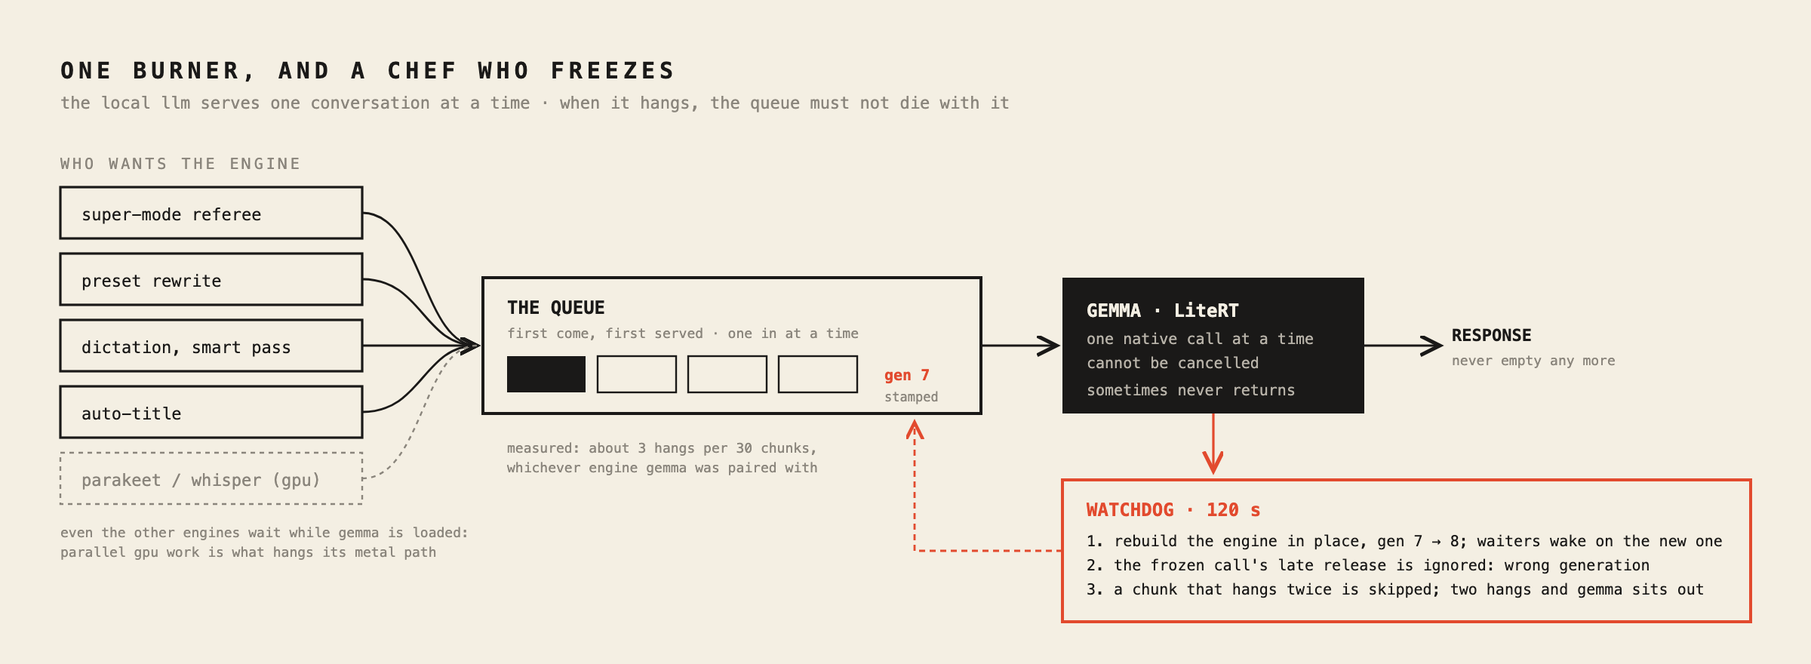
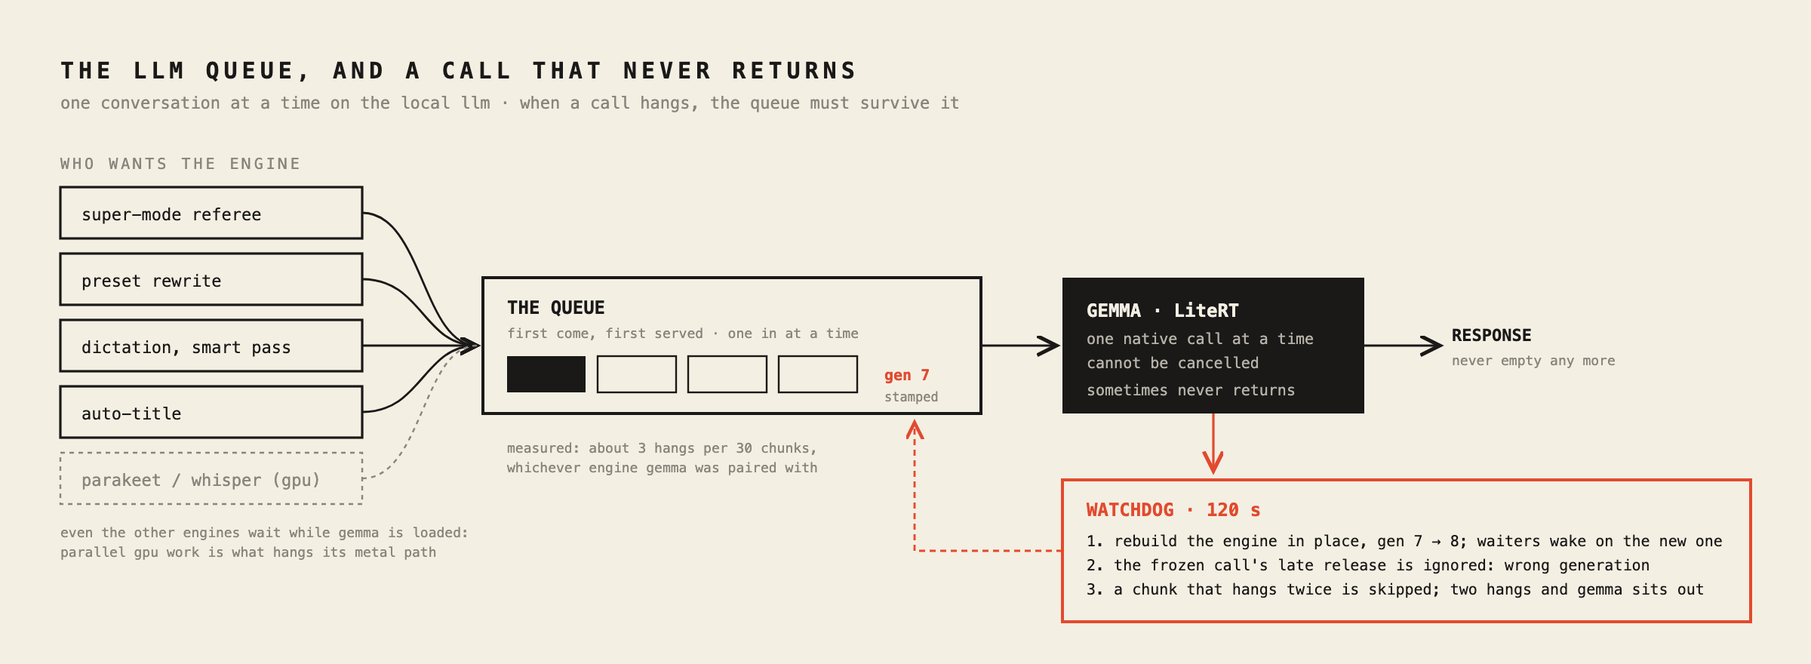
Build notes, part two: rewritten as the log, new stack diagram, stove diagram redrawn

Changed region(s): [[0.0312, 0.092, 0.4688, 0.1841], [0.5, 0.1534, 0.5312, 0.1841]]

diff --git a/docs/building-a-local-transcriber.md b/docs/building-a-local-transcriber.md
@@ -12,7 +12,7 @@ The map first. One pipeline, every recording. Every lesson below lives at one of
 
 The first build used one multimodal model for everything: Gemma via MLX, audio in, text out. The demo looked great. Then it transcribed a business meeting as a conversation about music production. That conversation never happened. Fluent, confident, invented.
 
-The rule that saved us: **isolate the layer before you blame it.** From the transcript view, a hallucinating model and a broken mic pipeline look identical. So prove layers one at a time. Headless CLI, test tone: 151 dB SNR — recorder healthy. Decode healthy. Which leaves the model — and there it was: the 8-bit quantized audio tower was degraded. Same Gemma through Google's LiteRT-LM runtime, the stack already proven on Android: word-perfect. Same weights, different runtime, opposite result.
+The rule that saved me: **isolate the layer before you blame it.** From the transcript view, a hallucinating model and a broken mic pipeline look identical. So prove layers one at a time. Headless CLI, test tone: 151 dB SNR — recorder healthy. Decode healthy. Which leaves the model — and there it was: the 8-bit quantized audio tower was degraded. Same Gemma through Google's LiteRT-LM runtime, the stack already proven on Android: word-perfect. Same weights, different runtime, opposite result.
 
 You don't integrate a model. You integrate a model-runtime pair.
 
@@ -28,7 +28,7 @@ No prompt fixes this, because it isn't comprehension — it's attention arithmet
 
 ![Chunked rewrites: each window's output passes its tail to the next prompt](img/baton.svg)
 
-A failed window keeps its source text — content can't be lost, only left unpolished. And the local engine is one chef in one kitchen, so generations queue FIFO. We let two cooks share the stove once. The plate came back empty.
+A failed window keeps its source text — content can't be lost, only left unpolished. And the local engine is one chef in one kitchen, so generations queue FIFO. I let two cooks share the stove once. The plate came back empty.
 
 The rule: prompt for judgment, code for mechanics, chunk everything.
 
@@ -45,9 +45,9 @@ Four macOS incidents. Zero useful errors at the moment of the mistake.
 
 ### Engines are a protocol, quality is a tournament
 
-Every engine — Parakeet on the Neural Engine, Whisper large-v3, Gemma — implements one small protocol: `transcribeChunk`, `generateText`, capability flags. That's why versioned transcripts cost almost nothing to build: every run is snapshotted, engines race on the same audio, you review the photo finish. It's also how we settled "is it better than a Samsung S24?" — side by side, per recording, not by vibes.
+Every engine — Parakeet on the Neural Engine, Whisper large-v3, Gemma — implements one small protocol: `transcribeChunk`, `generateText`, capability flags. That's why versioned transcripts cost almost nothing to build: every run is snapshotted, engines race on the same audio, you review the photo finish. It's also how I settled "is it better than a Samsung S24?" — side by side, per recording, not by vibes.
 
-The scoreboard, concretely: two real recordings, 28 and 42 minutes, same audio to both devices. Seven domain terms tracked — a company, a product, two cities, a security standard, a cloud platform, a meeting type. Transcriberr in Super mode: **7/7 exact**. Samsung: **2/7** — a European city came back as a country at war, a container platform became a word that doesn't exist, a company name turned into a cleaning product, and a "dev call" became "deaf calls". Where Samsung won: turn grouping — 39 clean speaker turns against our 115 fragments on the long file. That gap became a setting (speaker-turn gap, default 30 s), not a redesign.
+The scoreboard, concretely: two real recordings, 28 and 42 minutes, same audio to both devices. Seven domain terms tracked — a company, a product, two cities, a security standard, a cloud platform, a meeting type. Transcriberr in Super mode: **7/7 exact**. Samsung: **2/7** — a European city came back as a country at war, a container platform became a word that doesn't exist, a company name turned into a cleaning product, and a "dev call" became "deaf calls". Where Samsung won: turn grouping — 39 clean speaker turns against my 115 fragments on the long file. That gap became a setting (speaker-turn gap, default 30 s), not a redesign.
 
 ### Super mode: two stenographers and an editor-in-chief
 
@@ -59,7 +59,7 @@ Super mode = two engines + a merge (ROVER-style). Two court stenographers type t
 
 ![Super mode: two word tapes aligned, disputes arbitrated by a context-aware LLM](img/stenographers.svg)
 
-The bug that taught us the design: our first merge rubber-stamped anything that *looked* similar — and threw away the one word only Whisper caught, "OWASP 10". So: verbatim shortcuts only at near-certainty. Everything else gets a vote.
+The bug that taught me the design: my first merge rubber-stamped anything that *looked* similar — and threw away the one word only Whisper caught, "OWASP 10". So: verbatim shortcuts only at near-certainty. Everything else gets a vote.
 
 ### Meeting mode: plug into the soundboard
 
@@ -85,83 +85,109 @@ Twice before shipping, an independent review pass attacked the newest code with 
 
 Local-first AI is not cloud AI, smaller. It's a different discipline: prove each layer with evidence, let deterministic code do everything it can, give the model only short, judgment-shaped work — and never trust a demo.
 
-## Part two: a month later
+## Part two: the log
 
-The first part of this went up on 6 August, when the app was at version 1.2. It is now 5 September, the app is at 3.2, and fifty releases sit between the two. Most of the month went on things the August map barely had room for: meetings that record cleanly, a language model that sometimes stops answering, and dictation into any app on the Mac. The rest went on plumbing, which only shows up in a piece like this when it fails, so it will.
-
-### The map, redrawn
+Part one went up in August. What follows is the month after it, taken from the commit messages and cut down.
 
 ![The machine, a month later: what goes in, what comes out, and where the models sit](img/machine-v3.svg)
 
-The middle of the map is the same. The edges have changed. Audio now arrives three ways: from the microphone, from the meeting tap, or from a key you hold down while you talk. The first two feed the pipeline. The key skips it: the passage goes straight to Parakeet and straight back out, with no decoder, no chunking and no diarization in between. Text leaves three ways: as the transcript, as words pasted at the cursor of whichever app is in front, and through a read-only interface that lets any assistant running on the machine search the library. Under the engines sits a queue. Running Gemma at the same time as another model made Gemma hang, so the app now runs one model at a time. Along the bottom, every finished recording shrinks to a tenth of its size, and every transcript is shadowed to a folder of plain JSON that nothing in the app will ever delete.
+The middle of the map is the August pipeline. Dictation goes from the key straight to Parakeet and skips it: no decoder, no chunking, no diarization. The knowledge base reads the store. The queue under the engines runs one model at a time, because two models running at once made Gemma hang.
 
-## Hardship #4: The chef who freezes
+### The stack
 
-In August I wrote that the local language model is one chef in one kitchen, and that letting two cooks share the stove had produced an empty plate. That was the right picture and I had drawn half of it. The empty plates kept coming on days when, as far as I could tell, nobody was sharing anything, until the log gave it away: every zero-character response coincided with a Super-mode merge running at the same moment. Swift actors are reentrant at every await. An arbitration and a preset rewrite had each entered the actor, each awaited the engine, and the runtime had interleaved two conversations on one LiteRT session. One of them starved. The fix was a lock that hands out the engine first come, first served, and holds the door until the caller is done.
+Audio comes in through AVAudioEngine for the microphone, with Apple's voice processing on, and for meetings through a CoreAudio process tap joined to the mic in one aggregate device. The dictation key is a CGEvent tap. The app in front, the kind of field and the text before the caret come from the Accessibility API. Decoding is AVFoundation: AVAssetReader where it works, AVAudioFile and AVAudioConverter where it refuses, always down to 16 kHz mono.
 
-Which is when the chef froze. LiteRT's native call sometimes hangs, and it cannot be cancelled. The task holding the lock never reaches its cleanup, the lock stays held, and every later caller queues behind a corpse. I found this the way one finds these things, by waiting a long time for a summary that was never coming. The lock now carries a generation number. When the watchdog rebuilds the engine, the generation ticks over, the waiters wake up against the fresh engine, and whenever the frozen call finally lets go, its release belongs to a generation that is gone, so nothing happens. Around that sits a ladder. After 120 seconds the engine is rebuilt in place. A chunk that hangs twice is skipped. After two hangs in one run, Gemma is benched and the other engine finishes on its own. In a sweep of all six engine pairings on the same Ukrainian meeting, Gemma hung about three times in thirty chunks whichever partner it had, so the ladder gets climbed on ordinary Tuesdays.
+![The stack: Apple frameworks, the three packages that run the models, and the parts that are Yuri code](img/stack.svg)
 
-![One burner, and a chef who freezes: a generation-stamped queue in front of the local LLM, with a watchdog that rebuilds the engine](img/stove.svg)
+The models come through three packages. FluidAudio carries Parakeet, a CoreML build of Nvidia's TDT model that runs on the Neural Engine, and the pyannote diarization pipeline, also CoreML. WhisperKit carries whisper large-v3 as CoreML on the GPU. LiteRT-LM, Google's runtime, carries Gemma for audio and text on Metal. The cloud backends for OpenAI, Anthropic and Gemini are in the code behind an API key and off by default.
 
-One more thing sat underneath all of it. GPU work from another engine at the same moment was enough on its own to wedge LiteRT's Metal path. So there is now a gate across every engine: while a Gemma engine is loaded, heavy inference of any kind goes through one queue, and when no Gemma is loaded the gate lets everything straight through. The stove is fine. It has one burner.
+The Yuri code sits around the models: the engine protocol every backend implements; the Super-mode word vote and the arbitration pass; the queue, its watchdog and its benching; the NLMS echo canceller on Accelerate; the destutter pass, the chunk windows and the carried-over context between them; the vocabulary lists and the harvester that learns names from the library, using NaturalLanguage to tell a name from a capitalised ordinary word. Storage is SwiftData behind one main-actor context, plain JSON backups written additively, AAC through AVAudioConverter with lossless trims through AVAssetExportSession, and models in Application Support. The ways out: the SwiftUI app and its menu bar item, NSPasteboard plus a synthetic ⌘V, App Intents for Shortcuts and Siri, a URL scheme, the headless CLI that runs every stage, and the MCP server, JSON-RPC over stdio. Two non-Swift pieces: an Objective-C try/catch shim, because Swift's do/catch cannot catch the NSException AVAudioEngine throws and the app used to abort on the record button; and an IOKit power assertion so the Mac does not sleep during a long transcription.
 
-The error that cost me two releases: the log said "error 3". I opened the enum, counted down to the third case, and spent two versions chasing an engine that was never unavailable. Foundation does not number the cases of a payload-less Swift enum in the order they are declared. Error 3 was the chunk timeout all along.
+### Meeting mode
 
-## Hardship #5: Measured first, then redesigned
+Live captions now run for meeting recordings as well as plain ones. Both recorders emit the same five-second chunk feed and the live transcriber attaches to whichever one starts. The meeting recorder measures mic energy against system-tap energy per IO cycle, before the downmix, and saves the intervals where the mic dominates. After transcription, the speaker that best overlaps those intervals gets my name. The speaker-count stepper now reaches the diarizer; it had been dropped on the way.
 
-Super mode on a real 52-minute meeting, with the referee reading both sides of every chunk in sequence, took 24 minutes and 59 seconds. Then I looked at what the referee had actually done. The two engines agreed on 221 of the 226 chunks and never needed him. Running everything in sequence had bought context for five decisions and charged twenty minutes for it. The redesign runs the first pass three chunks wide with a plain vote and no Gemma at all, then sends only the disputed chunks, where agreement is below 0.8, back for a second, sequential pass in which the referee sees the transcript on both sides plus the vocabulary list. Two engines from different families dispute about 70% of the chunks on Ukrainian, so the second pass takes the ten worst disputes and lets the vote stand for the rest.
+Alongside the mixed file, meeting mode writes the raw mic track and the raw system track. When both exist, transcription runs them as two chunk streams on one timeline. Mic segments are me. Diarization runs only on the system track, with one speaker fewer since I counted myself. An echo guard drops mic segments that duplicate a system segment at the same time.
 
-The vote itself had a flaw that only a second language shows. Parakeet's confidence is calibrated on English, and on Ukrainian it stayed confident on precisely the words Whisper had right, so "NBE" lost to a Cyrillic misreading. Each engine now carries a prior per language: Parakeet v3 counts for half on Ukrainian, Parakeet v2 for half on anything that is not English, and Whisper anchors Ukrainian. A Whisper-plus-Gemma pairing stays a good one for Ukrainian because, when Gemma misbehaves, the ladder above degrades the run to almost pure Whisper, which is where you want to end up anyway. Two smaller things fell out of the same recording. Parakeet's tokens carry a literal leading space, which had doubled every separator in merged text. And Whisper splits Ukrainian words at the apostrophe, so "Пам" and "'ятаєш" arrive as two tokens and have to be glued back before anyone votes on them.
+### Speakers, echo, the 25-minute Super run, and the empty summaries
 
-## Hardship #6: The meeting that muted everyone but me
+The speaker count became a maximum. Forcing an exact cluster count manufactured phantom speakers when fewer people talked. A system-track cluster that carries my own name is the platform's echo of my voice and folds into me.
 
-Meeting mode had more releases than anything else, and the bug I am least proud of. The recorder told the microphone and the system tap apart by their position in the aggregate device's buffer list: buffer zero was the mic, everything after it was the tap. Nobody had promised that order. The echo gate downstream mutes the mic whenever the far side is louder, so on a machine where the order came out the other way round, the gate muted the other participants at exactly the moments I was speaking. The live waveform went flat for everyone but me, and the saved mix followed it. The tap is built as a stereo mixdown by construction, so the buffers are now told apart by channel count, and position is consulted only when the counts happen to match.
+Echo, first pass: while the system tap is loud and the mic is not dominant, the mic's contribution to the mix is attenuated to 12% with 40 ms smoothing, so the far side no longer arrives twice, once digitally and once through the room. Then the duck became a full gate, and then an offline NLMS canceller, run against the raw tracks after the recording stops. Measured: 11.8 dB off the echo, 0.2 dB off speech. A sentence-level scrub catches what the canceller leaves at speaker turns, with fuzzy token matching, because echo degrades "schedule" into "scheduled".
 
-The echo took longer. The tap is digital, but the mic hears the room, so the far side arrives twice, once cleanly and once through my speakers. First there was a duck, then a full gate on the mic while the far side speaks, then an offline echo canceller, NLMS, run against the raw mic and system tracks after the recording stops, so that the saved mix is rebuilt from a clean signal, where before it was a gated one. Measured on a real call: 11.8 dB off the echo, 0.2 dB off my own speech. What the canceller misses at the seams, a scrub at sentence level catches, with fuzzy matching, because echo degrades "schedule" into "scheduled" on its way through the room. Two structural moves made the rest easier. The raw tracks are kept beside the mix and transcribed separately, so my track is ground truth for "me" and the diarizer only has to untangle the others. And the speaker count became a maximum. Forcing an exact count had been manufacturing phantom speakers whenever fewer people talked.
+Super mode, measured on a real 52-minute meeting: the sequential max-quality run took 24:59. 221 of 226 chunks agreed between the engines and never reached arbitration. The sequential constraint bought context for five decisions and cost twenty minutes on 226. New design: the first pass runs three chunks wide with the vote only, and disputed chunks, agreement under 0.8, get a second sequential pass in which Gemma arbitrates with transcript context from both sides plus the vocabulary.
 
-And then live captions. The recorder's caption stream was created once, in the initialiser, and finished by stop. An AsyncStream cannot be un-finished. Live captions therefore worked for the first recording of each session and died for every one after. I fixed that in the plain recorder on 24 August and found the identical bug in the meeting recorder on 4 September. Meeting mode is the default. In practice, live captions had never worked.
+The test suite went from 16 to 41 and caught three bugs on the way: "yes yes" as deliberate emphasis was being collapsed as a stutter, the version dedup checked only the relationship array, and a boundary trim was deleting sentence ends. A CLI run command executes the full pipeline headlessly on real recordings before a deploy.
 
-## Hardship #7: Files
+The empty summaries. The log showed that every zero-character response coincided with a Gemma merge running at the same moment. Swift actors are reentrant at await: an ensemble arbitration and a preset generation had interleaved two conversations on the single LiteRT engine, and one starved. A non-reentrant FIFO lock now guards the text and audio paths. The lock then deadlocked: when a LiteRT inference hung, the task holding the lock never ran its defer, so the lock stayed held and every later call queued behind it. The lock is now generation-stamped and resets when the engine is rebuilt, so waiters resume against the fresh engine and the hung task's eventual release is a no-op. The watchdog rebuilds the wedged Gemma engine in place instead of tearing down the whole ensemble under in-flight chunks. A chunk that wedges twice is skipped. The dispute loop got a 120-second timeout per arbitration and a cap: the worst ten disputes by agreement are arbitrated, the rest keep the vote. Pairs from different model families dispute about 70% of chunks on Ukrainian.
 
-Recordings took 7.7 GB. They take 1.0 GB now. Recording still writes WAV, because encoder work inside a CoreAudio callback is a risk I did not want to take with live capture. Once a file is closed and its database row is saved, it is transcoded to 16 kHz mono AAC at 48 kbps, checked against the original's duration, and only then is the WAV deleted. The first draft did that the other way round, transcoding before the row was saved, which meant a crash mid-transcode would have left a complete recording on disk with no row pointing at it, invisible forever. The order of operations is the whole feature.
+![The LLM queue, and what happens when a native call hangs: a generation-stamped lock, a watchdog that rebuilds the engine, benching after two hangs](img/stove.svg)
 
-Splitting a recording in two, which arrived later, came with a sound I had to hear to believe: robotic, with small clicks at the cut. The split decoded the compressed source and re-encoded both halves, a second lossy pass on top of the first, and at the cut point that measures about 6% RMS distortion against the source, where an ordinary re-encode measures under 1%. The bitrate could not go up: 48 kbps is the top of AVAudioConverter's list for 16 kHz mono. So the split now trims the original bitstream without touching the encoder, which measured 0%, and both the cut and the join get a 20 ms fade, which any audio tool does at a boundary and this one had been missing everywhere it joined raw samples.
+### Error 3, the JSON flake, and Ukrainian
 
-Every transcript, every version of it, and every generated output now also lives as human-readable JSON in a Backups folder next to the project, never pruned, including after a delete. A corrupted store takes nothing with it. And one bug I had blamed on SwiftData for a week was mine. Duplicate versions kept appearing with the same timestamp. The deduplication compared two transcripts by their encoded JSON strings, and JSONEncoder's key order is not stable between two encodes of the same value. A standalone harness put numbers on it: under heap churn, 131 of 150 identical saves produced a duplicate with the string comparison, and 0 of 300 with a comparison of the decoded content.
+"Error 3" in the log was the chunk timeout, not "backend unavailable". Foundation does not number the cases of a payload-less Swift enum in declaration order. Two releases went to the wrong failure. The max-quality first pass had a bare 300-second timeout and no recovery; it now recovers, retries, degrades to the healthy engine, and after two wedges in a run Gemma sits out the rest. In a sweep of all six engine pairs on the same Ukrainian meeting, Gemma wedged in every pairing that contained it, about three times per thirty chunks, whichever partner it had.
 
-## Dictation: the same machine, pointed at the cursor
+Version snapshots were deduplicated by comparing encoded JSON strings. JSONEncoder's key order is not stable across two encodes of the same value. In a standalone harness under heap churn, 131 of 150 duplicate saves got through with the string compare and 0 of 300 with a compare of the decoded content. I had blamed SwiftData staleness for a week. Instrumentation showed both views seeing the stored row and the JSON not matching.
 
-This is the part of the month I use every day. Hold the right Option key in any app, talk, let go, and the passage appears where the cursor was. Under the hood it is the app's existing parts in a different order. The recorder's input chain captures into memory. Parakeet decodes the whole passage in one pass on the Neural Engine, a fraction of a second for half a minute of speech. While you are still talking, the buffer so far is decoded every 2.5 seconds and shown as provisional text, and the final pass runs over the whole passage, so the preview's mistakes never reach the cursor. Then come the same deterministic stages the presets use, in an order that took one bug to settle: vocabulary spellings first, then the destutter pass, then self-corrections, then spoken commands. The order matters because one of the names on my vocabulary list is KimKim, and the destutter pass, run first, made it Kim.
+The ROVER merge degraded Ukrainian. Parakeet's token surfaces carry a literal leading space, which doubled every separator in merged text. Whisper splits Ukrainian words at the apostrophe, so "Пам" and "'ятаєш" arrived as two tokens. And Parakeet's calibrated-high confidence outvoted Whisper on divergent words: "NBE" lost to "ДНБІ". The merge now takes per-language vote priors, Parakeet at half weight on Ukrainian, and every fallback prefers the stronger-language engine. Validated on the real meeting: zero double spaces, zero split apostrophes, Whisper's Latin entities survive.
+
+Concurrent GPU or Neural Engine work from another engine wedges LiteRT's Metal path on its own. So while a Gemma engine is live, heavy native inference across all engines goes through one generation-stamped gate. With no Gemma loaded, the gate passes everything through.
+
+### Folders, the knowledge base, backups, disk
+
+Folders, one per recording, and tags, many to many, with nullify delete rules so deleting one never cascades into the others. Name uniqueness is checked case-insensitively in code; SwiftData's unique attribute upserts without saying so. Behind them, a read-only layer for LLMs. The CLI opens the same store file with allowsSave false, which maps to Core Data's read-only option, so the process can never write to or migrate a store the GUI has open, and WAL makes reads from a second process safe. There are kb list, search, get, outputs, folders, tags and stats commands, and an mcp command that serves the same six calls as JSON-RPC over stdio.
+
+Import no longer overwrites an existing file with the same name. WhatsApp exports share names; a second import replaced the first recording's audio on disk, both rows then played the same file, and a merge concatenated one file twice.
+
+Every recording's transcript now shadows to a Backups folder next to the project as human-readable JSON: current state, every historical version, every generated output. Backups are never removed on delete. The per-chunk append path does not back up, since that would add a synchronous encode and disk write to the hot path; the backup refreshes at the run-completion checkpoints, which already hold the full transcript. A restore command re-injects into a live store and fills in only what is missing.
+
+Finished recordings are transcoded to 16 kHz mono AAC at 48 kbps, about a tenth of the WAV. Recording still writes WAV; encoder work inside a CoreAudio IO callback is not a risk I want with live capture. The transcode runs after the file is closed and the row is saved, is checked against the original's duration, and only then deletes the WAV. The first draft awaited compression before the row was saved, so a crash mid-transcode would have left a fully recorded file with no row pointing at it. A review pass on that diff found ten issues; that was the serious one. Migrating the existing library moved 23 of 24 WAV recordings; the Recordings folder went from 7.7 GB to 1.0 GB. Two things learned on the way: AVAudioFile finalises a WAV header only when the writer is deallocated, and read(into:) throws at end of file instead of returning an empty buffer.
+
+The meeting recorder's live gate still let audible echo into the saved file. After Stop, the offline canceller now reruns against the raw tracks and rebuilds the saved mix. That rebuild plus the compression used to run synchronously before Stop returned, so pressing Stop looked hung. Both run in the background now, and transcription starts at once off the raw WAV.
+
+### Two things that worked once
+
+The language used for a run was never written back onto the recording, so an older recording could show whatever language had been picked last for a different one. The run's languages are locked onto the recording when the job starts.
+
+The plain recorder's live-caption stream was created once in init and finished by stop. An AsyncStream cannot be un-finished. Live captions worked for the first recording of each session and died for every one after.
+
+### The mute, the split, and the same bug again
+
+The meeting recorder told the mic and the system tap apart by position in the aggregate device's buffer list: buffer zero the mic, the rest the tap. Nothing guarantees that order. The echo gate downstream mutes whatever lands in the mic slot whenever the other side dominates, so with the order reversed it muted the other participants exactly while I was talking, and the waveform went flat for everyone but me. The tap is built as a stereo mixdown by construction, so buffers are now told apart by channel count when the counts differ, and by position only when they match.
+
+Neither Package.resolved nor a lockfile was committed, so a fresh checkout resolved newer FluidAudio and LiteRT-LM packages whose XCFrameworks both ship a file named module.modulemap into the same include path, and the build failed. Both are pinned now.
+
+Split, the inverse of merge: audio cut at a point, transcript partitioned by segment midpoint, mic and system tracks and the speaking intervals cut the same way, folder, tags and run settings carried over, the source left untouched. A ten-pass review before shipping found fifteen confirmed issues. Among them: the halves were saved to the database before their sidecar tracks were written, inverting merge's write-disk-then-save order; no rollback on partial failure; speaker names copied verbatim to both halves; Cancel did not stop a split already running.
+
+Then the sound of a split: robotic, with small clicks at the cut. Splitting an already compressed recording decoded to PCM and re-encoded both halves, a second lossy pass on top of the first. Measured against a real recording, about 6% RMS distortion at the split point, against under 1% for an ordinary re-encode of the same material. The bitrate could not go up; 48 kbps is the top of AVAudioConverter's list for 16 kHz mono. The split now trims the original bitstream with AVAssetExportSession in passthrough mode, which measured 0%, and both the cut and the join get a 20 ms fade.
+
+Then the meeting recorder turned out to have the same live-caption bug the plain recorder had had: stream created in init, never recreated on start. Meeting mode is the default, so live captions had never worked in it.
+
+### Dictation
+
+A bug hunt first, nine fixes: the elapsed timer froze after pause and resume and the frozen value was saved as the duration; switching to the Library mid-recording forgot the recording in progress; Cancel right after Run was a no-op; the delete paths did not cancel a running job.
+
+Then dictation. Hold Right Option in any app, speak, release. The passage is captured in memory, decoded in one Parakeet pass on the Neural Engine, cleaned in code, and pasted at the cursor by pasteboard plus a synthetic ⌘V, with the previous clipboard restored. The text stages run in a fixed order: vocabulary spellings, then destutter, then self-corrections ("Monday, no, Tuesday"), then spoken commands. Vocabulary has to go first; run after destutter, "Kim Kim" collapses to "Kim".
 
 ![Dictation: hold a key, Parakeet decodes the passage, plain code cleans it, the app in front picks the lane, the text is pasted at the cursor](img/dictation.svg)
 
-Wispr Flow does the clever part of this in the cloud, and I wanted it on the Mac. When the key goes down, the app reads through Accessibility which app is in front, what kind of field has focus, and up to 600 characters before the caret. Password fields are never read. A per-app rule then picks a lane. Terminals and code editors get the words verbatim. Slack and WhatsApp get a Gemma pass told to write casually, Mail and Outlook get one told to write formally, Notes and Word get one with no particular register, and everything else gets the deterministic text and nothing more. The text before the caret settles the language when recognition is on auto, and whether the join needs a space or a capital letter.
+The first end-to-end run captured 0.2 s of a ten-second sentence. Enabling voice processing on a cold AVAudioEngine took 4 s, measured, and those are the seconds in which the user is already talking. The input chain is now pre-warmed at launch and after every stop. Start takes 0.03 s.
 
-The Gemma pass needed a guard, because a small model handed "what time is the meeting tomorrow" will sometimes answer the question. The polished text is accepted only if at least three quarters of its words appear, in order, in the raw passage, and only if the passage's tail survives, because in one end-to-end run Gemma dropped the last sentence and kept a straight face. Otherwise the deterministic text goes in and the model's opinion goes nowhere. "Monday, no, Tuesday" becomes Tuesday in code, with an idiom guard so that "no, no, no" survives. "Scratch that" sends backspaces to the app in front, in English, Dutch, German and Ukrainian.
+Context, on-device. At session start the app reads through Accessibility the frontmost app, the focused element's role, the window title, and up to 600 characters before the caret. Password fields are verbatim and never read. Per-app rules: terminals and editors verbatim, chat apps a Gemma pass in a casual register, mail formal, everything else the deterministic text. The Gemma result is accepted only if at least 75% of the raw words survive in order and the tail of the passage survives; in one end-to-end run Gemma dropped a trailing sentence. Otherwise the deterministic text goes in. "Scratch that" removes the last passage in the target app through Backspace events. Commands also in Dutch, German and Ukrainian. Shortcuts actions that run without activating the app.
 
-The vocabulary list from part one now writes itself. At launch the app reads the library's transcripts and keeps any capitalised term that turns up mid-sentence in more than one recording, is three words or fewer, and is not an ordinary word the recognizer happened to capitalise: 126 names from 46 transcripts, in 0.3 seconds. Those spellings feed dictation straight away, Settings offers them for promotion into the permanent list, and every new passage offers its unknown names as one-tap additions. The folder names beat the model's guess in August. The meetings beat the folder names now.
+Permissions. macOS keys a grant to the app's designated requirement. Ad-hoc signing set that to the per-build hash, so every release invalidated the grant while System Settings still showed the tick and AXIsProcessTrusted stayed false. The packaging script now signs with an explicit identifier-based requirement, which every build satisfies. Upgrading from an older build still needs one removal and re-add in the Accessibility list. That is documented, not fixed.
 
-Three things bit on the way.
+The hotkey moved from NSEvent monitors to a listen-only CGEvent tap at session level, the same channel Karabiner-style tools use. It re-arms itself if macOS disables the tap and reports every event, so the Dictate screen shows the last key event seen.
 
-The first was silence at the start of every passage. Enabling voice processing on a cold audio engine took four seconds, measured, and four seconds after the key goes down is when the first sentence is already over. The input chain is now warmed at launch and again after every stop. Start takes 0.03 seconds.
+Names learned from the library: at launch, capitalised terms that appear mid-sentence in more than one transcript, three words or fewer, and are not ordinary words by lowercase frequency, are harvested and applied to dictation. 126 names from 46 transcripts in 0.3 s. Live preview: the buffered audio is decoded every 2.5 s while speaking and shown as provisional text. An end-to-end script speaks a sentence through the speakers with the system voice, dictates it, and checks the knowledge base for it. On its first run the echo canceller suppressed the speaker output and nothing was recognised; the script now turns voice processing off for the loop.
 
-The second was a grant that vanished with every release. macOS keys its permission grants to the app's designated requirement, and an ad-hoc signature sets that to a hash of the build. So after every update, System Settings showed Transcriberr ticked under Accessibility while the process was untrusted and the hotkey never armed. The packaging script now signs with an explicit requirement keyed to the bundle identifier, which every build satisfies. Remove and re-add the app in that list once, and the grant stays.
+### Still open
 
-The third was the hotkey itself. It began as an NSEvent global monitor and ended as a listen-only CGEvent tap, the channel Karabiner-style tools use, which re-arms itself if macOS disables it and reports every key event it sees so the Dictate screen can show the last one. A deaf hotkey with no diagnostics is a support ticket with no answer.
+Gemma's native call still hangs on some audio. Benching is the mitigation. Upgrading from a build before the signing change still needs the one-time Accessibility re-add. For Ukrainian I still use Whisper as the anchor; the Parakeet pairing is usable since the priors, and Whisper plus Gemma is the pair I run. The suite is at 123 tests and every release passes it before it ships.
 
-I tested the whole path without touching the keyboard: a URL scheme starts a session, the system's own text-to-speech voice reads a sentence through the speakers, another URL stops it, and the knowledge base is searched for the sentence. The first run found nothing, because the echo canceller was doing its job on the speaker output. That is the kind of failure I will take.
+## What the month taught
 
-## The library, opened up
-
-Folders and tags arrived in August, and behind them a door: a command-line interface and a small MCP server that expose the library to any assistant on the machine. The store is opened read-only, with a fresh context for each request, and the write-ahead log makes concurrent reads safe while the app is running. Nothing on that path can save or migrate. It is how I verified dictation, and how a coding assistant now reads my meeting notes without a byte of them leaving the machine.
-
-## Hostile readers, on a schedule
-
-In August there were sixteen tests. There are 123 now, and no release ships without them passing. The adversarial review from part one became routine, with numbers: ten confirmed issues on the compression change, fifteen on split, nine in a general sweep. Two of the platform's habits belong on the record. A test host launched by launchd from a folder under Documents blocks in the dynamic loader on the "access your Documents folder" prompt, which nobody is there to answer, and looks exactly like a hang. And two Swift packages that each ship an XCFramework with a file called module.modulemap collide in a fresh checkout, so both are pinned to versions that build.
-
-## The second summary
-
-A month in, the hard bugs have moved out of the models and into state I cannot see: a lock across an await, a grant keyed to a build hash, a stream that will not restart, a buffer order nobody promised. The evidence rule from part one still holds. It now applies to the platform.
+None of the month's bugs produced an error at the moment of the mistake: a lock held across an await, a grant keyed to a build hash, a stream that cannot be restarted, a buffer order nobody guaranteed. All of them fell to the same method as in part one, a headless run and a number.
 
 ---
 
